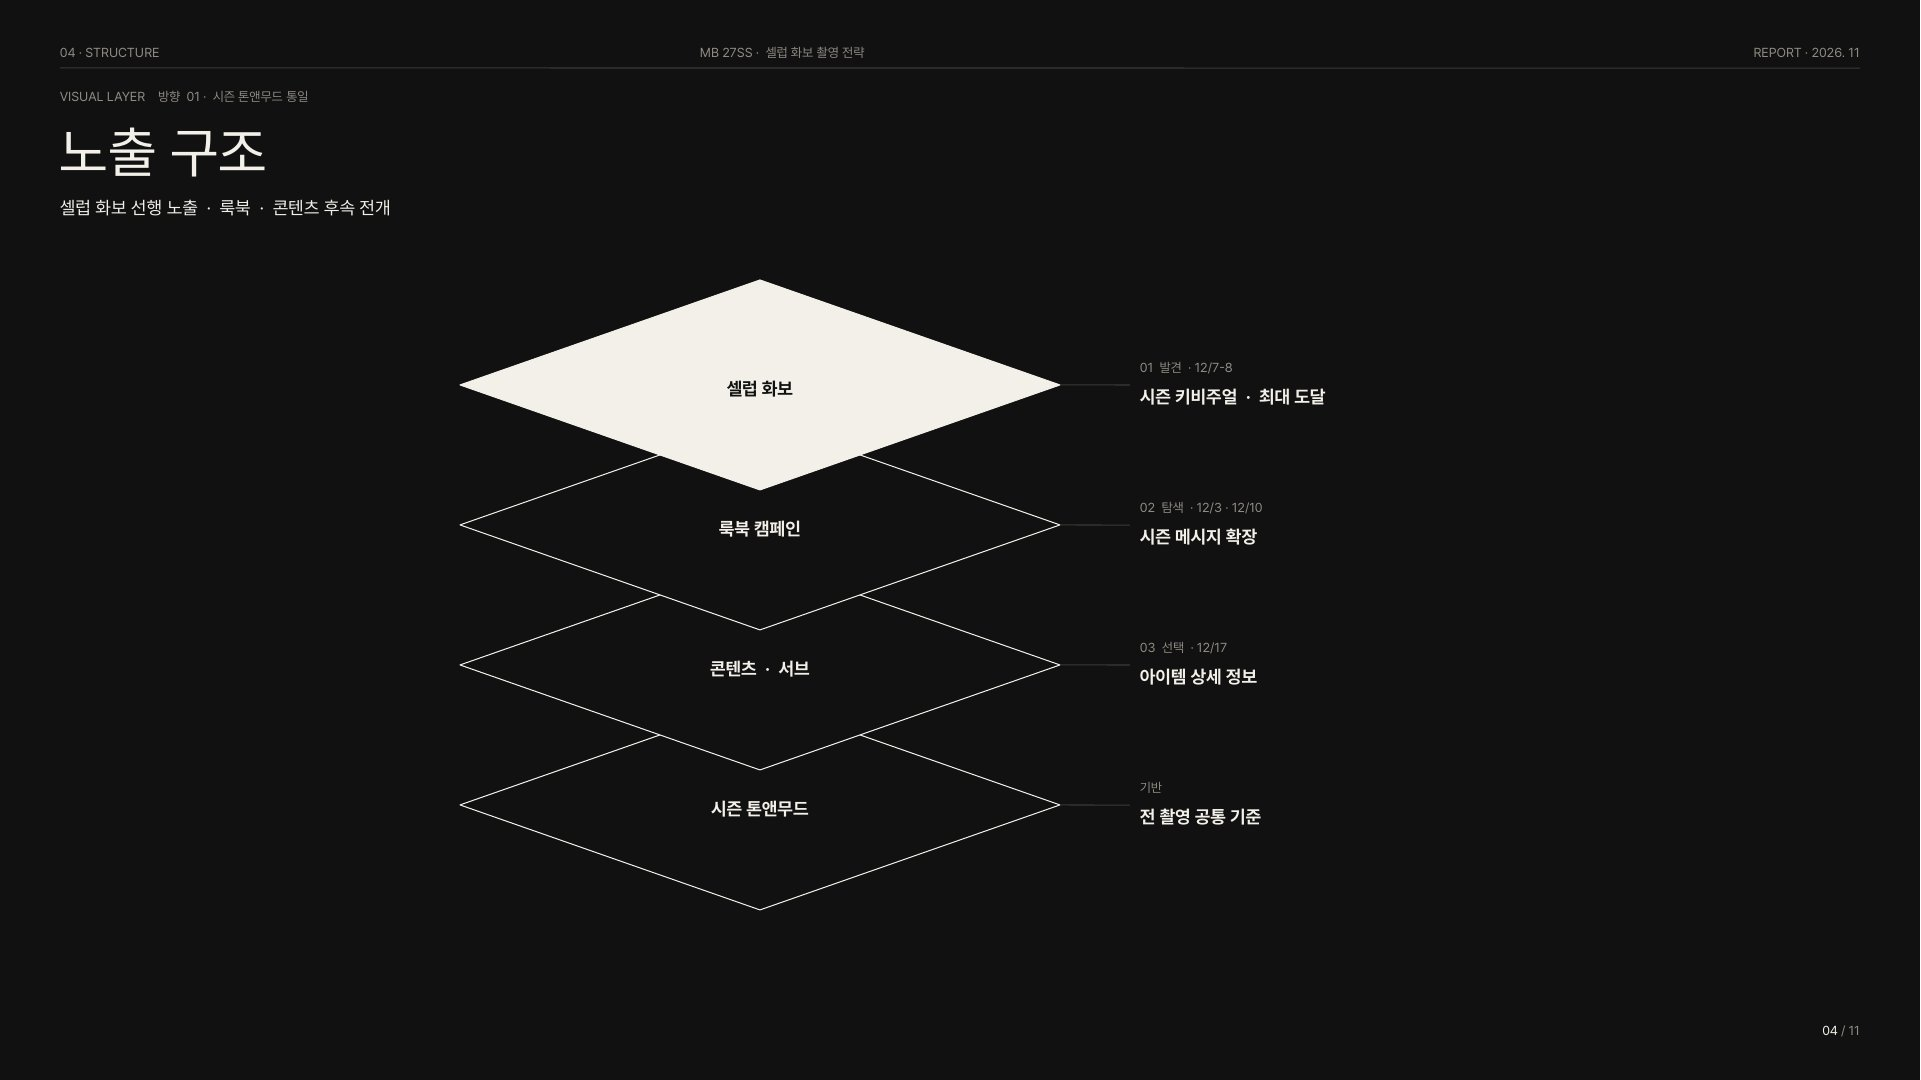
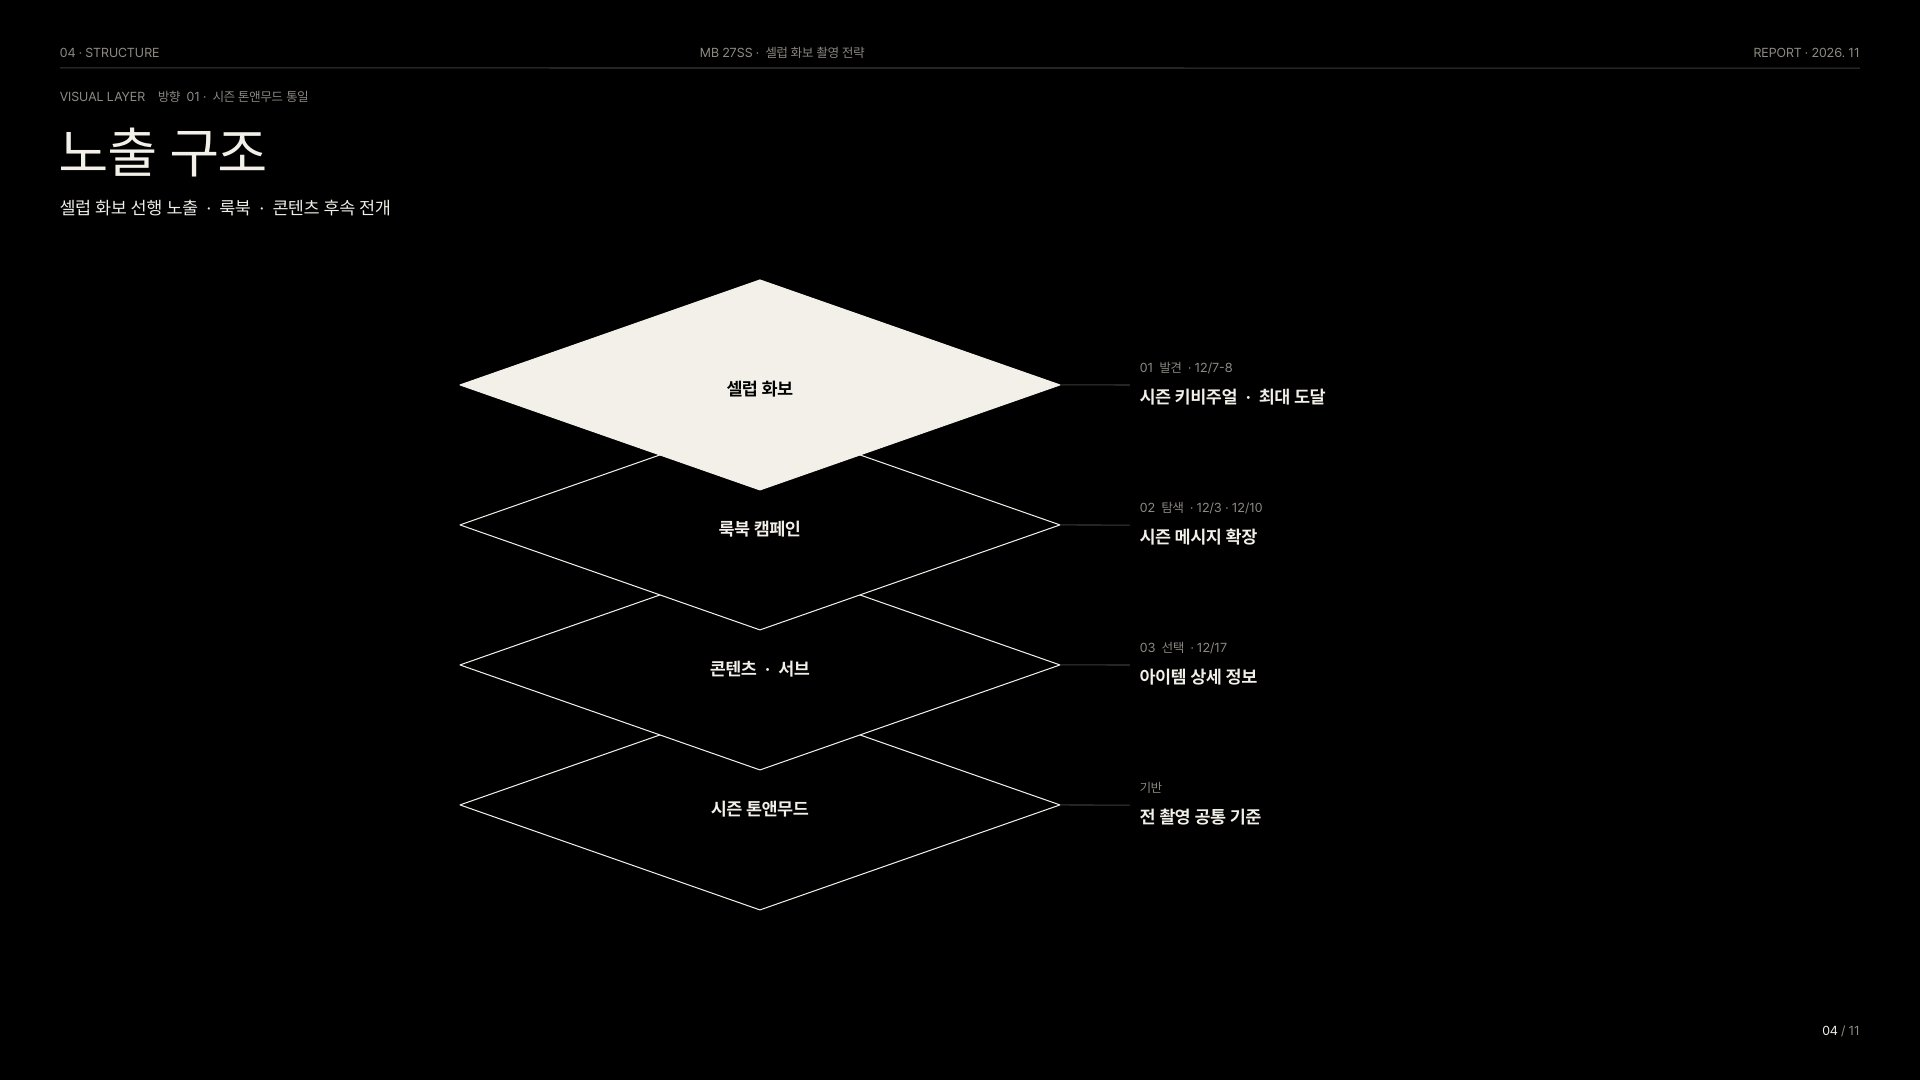
v76 black background, 1920px slides

diff --git a/index.html b/index.html
@@ -1,5 +1,5 @@
 <!doctype html>
-<!-- MB 27SS v75 -->
+<!-- MB 27SS v76 -->
 <html lang="ko">
 <head>
 <meta charset="utf-8">
@@ -8,13 +8,13 @@
 <title>MB 27SS 셀럽 화보 촬영 전략</title>
 <link rel="stylesheet" href="https://cdn.jsdelivr.net/gh/orioncactus/pretendard@v1.3.9/dist/web/static/pretendard.min.css">
 <style>
-:root{--bg:#1A1A19;--fg:#F2F0E9;--mute:#9A978F;--line:rgba(242,240,233,.18)}
+:root{--bg:#000000;--fg:#F2F0E9;--mute:#9A978F;--line:rgba(242,240,233,.18)}
 *{box-sizing:border-box;margin:0;padding:0}
 html,body{height:100%;background:var(--bg);color:var(--fg);font-family:Pretendard,system-ui,sans-serif;letter-spacing:0;overflow:hidden;-webkit-tap-highlight-color:transparent}
 #deck{position:fixed;inset:0 0 44px 0;display:flex;overflow-x:auto;overflow-y:hidden;scroll-snap-type:x mandatory;scrollbar-width:none}
 #deck::-webkit-scrollbar{display:none}
 .slide{flex:0 0 100%;height:100%;scroll-snap-align:center;display:flex;align-items:center;justify-content:center;padding:16px}
-.slide img{max-width:100%;max-height:100%;aspect-ratio:16/9;width:auto;height:auto;object-fit:contain;background:#111;cursor:zoom-in;display:block}
+.slide img{max-width:100%;max-height:100%;aspect-ratio:16/9;width:auto;height:auto;object-fit:contain;background:#000;cursor:zoom-in;display:block}
 body.fs #deck{bottom:0}
 body.fs .slide{padding:0}
 body.fs #bar{opacity:0;pointer-events:none}
@@ -57,7 +57,7 @@ body.fs #prog{bottom:0}
 </div>
 <div id="intro"><div class="box">
   <h1>MB 27SS 셀럽 화보 촬영 전략</h1>
-  <p>김지용 상무님 보고 · v75 · 11장<br>좌우 스와이프 · 방향키 · 휠 · 좌우 버튼으로 넘김<br>슬라이드 클릭 시 원본 크기 확대 · 내부 보고용</p>
+  <p>김지용 상무님 보고 · v76 · 11장<br>좌우 스와이프 · 방향키 · 휠 · 좌우 버튼으로 넘김<br>슬라이드 클릭 시 원본 크기 확대 · 내부 보고용</p>
   <div class="btns"><button class="p" id="goFs">전체화면으로 보기</button><button class="s" id="goIn">이대로 보기</button></div>
 </div></div>
 <div id="zoom"><span class="x">닫기</span><img alt=""></div>
